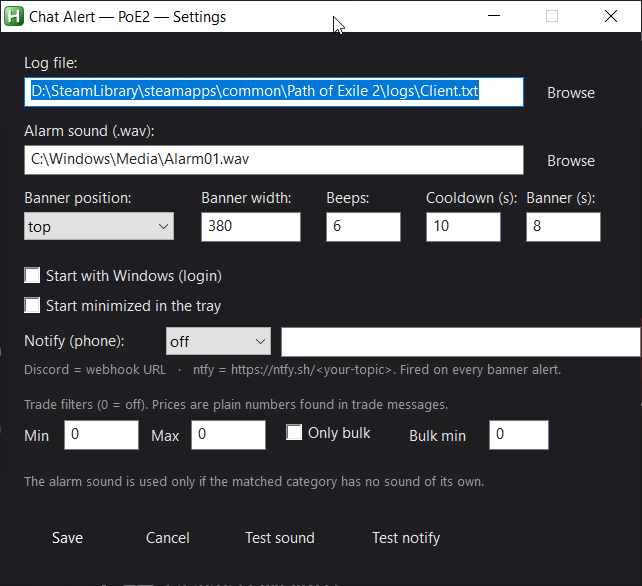
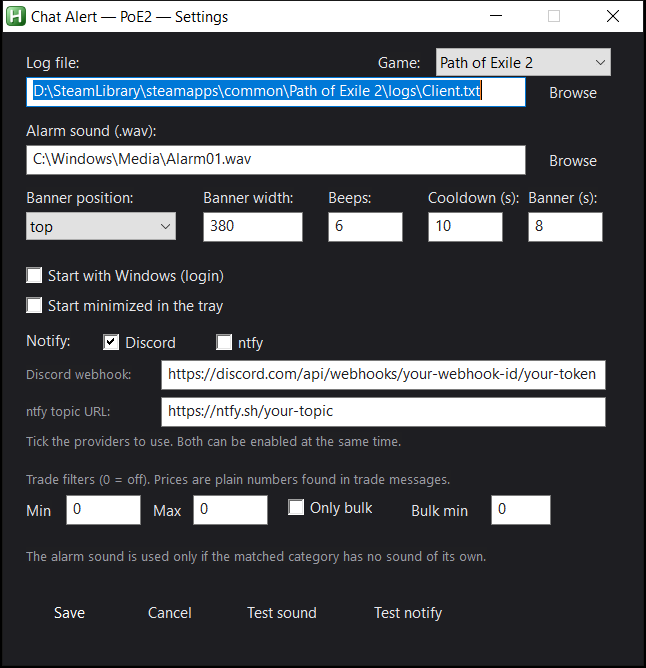
Add Path of Exile 1 support with a game switch
Settings gains a Game dropdown (Path of Exile 2 / Path of Exile 1). Each game keeps its own log path; switching stops the watcher, re-detects the Client.txt, reloads the item database and updates title, subtitle and tray tooltip. Item refresh and the trade endpoints follow the active game. README documents per-game log locations, the new settings row and a v1.2 section.

diff --git a/README.md b/README.md
@@ -1,24 +1,27 @@
 <div align="center">
 
-# Chat Alert <sub>for Path of Exile 2</sub>
+# Chat Alert <sub>for Path of Exile 2 &amp; 1</sub>
 
 **Never miss a whisper, a party invite or a guildmate asking for leech — get an on-screen alert the instant a word you care about hits the chat.**
 
 ![AutoHotkey](https://img.shields.io/badge/AutoHotkey-v1.1%20·%2064--bit-6594B9?logo=autohotkey&logoColor=white&style=flat-square)
 ![Platform](https://img.shields.io/badge/Windows-10%20%2F%2011-0078D6?logo=windows&logoColor=white&style=flat-square)
 ![Game access](https://img.shields.io/badge/Game%20access-read--only%20log-2EA44F?style=flat-square)
-![Version](https://img.shields.io/badge/version-1.1-D9A441?style=flat-square)
+![Version](https://img.shields.io/badge/version-1.2-D9A441?style=flat-square)
 ![No dependencies](https://img.shields.io/badge/dependencies-none-6E7681?style=flat-square)
 
-[Quick start](#quick-start) · [Features](#features) · [What's new](#whats-new-in-v11) · [Screenshots](#screenshots) · [Troubleshooting](#troubleshooting)
+[Quick start](#quick-start) · [Features](#features) · [What's new](#whats-new-in-v12) · [Screenshots](#screenshots) · [Troubleshooting](#troubleshooting)
 
 </div>
 
 ---
 
-**Chat Alert** tails the chat log Path of Exile 2 writes to disk and pops a clean, always-on-top banner the moment
-something you care about appears — a guildmate asking for leech, a party invite in Global, a whisper you would have
-missed while fighting a boss.
+**Chat Alert** tails the chat log **Path of Exile 2 or Path of Exile 1** writes to disk and pops a clean, always-on-top
+banner the moment something you care about appears — a guildmate asking for leech, a party invite in Global, a whisper
+you would have missed while fighting a boss.
+
+Both games use the same log format, so one switch in **Settings → Game** is all it takes. Each game remembers its own
+log file, and you can change game at any time without restarting.
 
 It **never touches the game process**. It only reads a text file: no injection, no memory access, no FPS impact, works
 in windowed, borderless and fullscreen.
@@ -31,6 +34,7 @@ in windowed, borderless and fullscreen.
 
 | | |
 |---|---|
+| **Two games** | Path of Exile 2 **and** Path of Exile 1 — one switch, each game remembers its own log file |
 | **Word alerts** | Any word or phrase, with case-sensitivity, whole-word matching and priority levels |
 | **Five channels** | Global · Trade · Party · Whisper · Guild — each with its own colour, sound and on/off switch |
 | **Phone push** | Discord webhook and/or ntfy — enable one or both, each with its own URL |
@@ -46,9 +50,11 @@ in windowed, borderless and fullscreen.
 1. **Install AutoHotkey v1.1 (64-bit)** → [download](https://www.autohotkey.com/download/ahk-v1-1.zip). AutoHotkey **v2 is not supported**.
 2. **Download** this repo (*Code → Download ZIP*) and extract it anywhere.
 3. **Run** `PoE2-Chat-Alert.ahk`.
-4. Point it at your game log — press **Choose log...** or open **Settings**:
+4. Pick your game in **Settings → Game** and point it at that game's log — press **Choose log...** or let the app find
+   it automatically:
    ```
-   <Steam or game folder>\Path of Exile 2\logs\Client.txt
+   Path of Exile 2:  <Steam or game folder>\Path of Exile 2\logs\Client.txt
+   Path of Exile 1:  <Steam or game folder>\Path of Exile\logs\Client.txt
    ```
 5. Type a word (e.g. `leech`), press **Add**, then **Start** — or just hit <kbd>Ctrl</kbd>+<kbd>Alt</kbd>+<kbd>S</kbd>.
 
@@ -60,7 +66,7 @@ The status bar shows `listening to chat (every 500 ms)` when it is working.
 
 ## How it works
 
-Path of Exile 2 writes every chat message to a plain-text log:
+Both games write every chat message to the same kind of plain-text log, so the app reads them identically:
 
 ```
 ... [INFO Client 1234] $SomePlayer: WTS Perfect Strike 5 divine
@@ -76,6 +82,25 @@ all, and the app keeps working whether or not the game is focused.
 ---
 
 ## Features
+
+### Path of Exile 1 and Path of Exile 2
+
+One app, both games. Open **Settings → Game** and pick what you are playing:
+
+- The app switches to that game's log file (and remembers it, so switching back is instant).
+- The window title and the header show `PoE1` or `PoE2` at a glance.
+- If you choose a log file manually (**Choose log...**), the game is detected from the path automatically.
+- Your **profiles, words, history, sounds and notifications are shared** between the two games — only the log file and
+  the item database are per-game.
+
+Default log locations, if you want to set the path by hand:
+
+| Game | Steam | Standalone | Epic |
+|---|---|---|---|
+| Path of Exile 2 | `...\steamapps\common\Path of Exile 2\logs\Client.txt` | `...\Grinding Gear Games\Path of Exile 2\logs\Client.txt` | — |
+| Path of Exile 1 | `...\steamapps\common\Path of Exile\logs\Client.txt` | `...\Grinding Gear Games\Path of Exile\logs\Client.txt` | `...\Epic Games\PathOfExile\logs\Client.txt` |
+
+> The app watches **one game at a time**. To switch, change the dropdown — no restart needed.
 
 ### Word alerts
 
@@ -170,6 +195,22 @@ These work while the game has focus (unless the combination is bound in-game):
 
 ---
 
+## What's new in v1.2
+
+### Play Path of Exile 1 or Path of Exile 2
+- New **Game** selector in Settings. Both games write the same chat format, so alerts, profiles and history work unchanged.
+- The log file, item database and trade API are per game; each game remembers its own log path.
+- The window title, header and tray tooltip follow the selected game.
+- Choosing a log file manually switches the game automatically when the path is recognisable.
+
+### Two games, one config
+- Existing settings are migrated automatically: the old single `log_path` becomes the log path of the game you had
+  selected, so there is nothing to redo after updating.
+- The Settings window refreshes itself after a game change, so the log field always shows the correct path.
+- PoE2 installations are still detected out of the box; PoE1 Steam, standalone and Epic folders are probed too.
+
+---
+
 ## What's new in v1.1
 
 ### Notifications: Discord *and* ntfy, independently
@@ -231,7 +272,8 @@ These work while the game has focus (unless the combination is bound in-game):
 
 | Setting | Description |
 |---|---|
-| **Log file** | Path to `logs/Client.txt` of your PoE2 installation |
+| **Log file** | Path to `logs/Client.txt` of your installation (filled automatically per game) |
+| **Game** | `Path of Exile 2` or `Path of Exile 1` — switches log file, item database and branding |
 | **Alarm sound (.wav)** | Fallback sound used when a category has none |
 | **Banner position** | `top`, `center` or `bottom` |
 | **Banner width** | Banner width in pixels (default 380) |
@@ -251,8 +293,10 @@ Settings are stored in `PoE2-Chat-Alert.ini` next to the script and saved automa
 | File | Purpose | In git |
 |---|---|:--:|
 | `PoE2-Chat-Alert.ahk` | The application | yes |
+| `items.txt` | Item database used by Trade watch for Path of Exile 2 | yes |
+| `items-poe1.txt` | Item database used by Trade watch for Path of Exile 1 (created by *Update items*) | no |
 | `README.md`, `screenshots/` | Documentation | yes |
-| `PoE2-Chat-Alert.ini` | Your settings, profiles and history (created on first run) | no |
+| `PoE2-Chat-Alert.ini` | Your settings (both games), profiles and history (created on first run) | no |
 | `PoE2-Chat-Alert-matches.txt` | Local log of every match | no |
 | `PoE2-Chat-Alert-<timestamp>.csv` | History exports | no |
 
@@ -265,8 +309,17 @@ Delete the `.ini` file to reset the app to defaults.
 <details>
 <summary><b>The status bar says "Log not found"</b></summary>
 
-Set the correct path in **Settings → Log file → Browse**. It must point to `...\Path of Exile 2\logs\Client.txt`.
-Launch the game once so the log exists.
+Check that **Settings → Game** matches the game you are playing, then set the correct path in **Settings → Log file →
+Browse**. It must point to `...\Path of Exile 2\logs\Client.txt` or `...\Path of Exile\logs\Client.txt`. Launch the game
+once so the log exists — the app creates it only while the game is running.
+
+</details>
+
+<details>
+<summary><b>I play both games — do I need two copies?</b></summary>
+
+No. Use **Settings → Game** to switch. Each game keeps its own log path, so going back and forth is two clicks. Words,
+profiles and history are shared; only the log file and the item database change.
 
 </details>
 
@@ -320,7 +373,10 @@ Chat Alert only reads a text file written by the game. It does not read memory, 
 with the client. Still, use it at your own risk — see below.
 
 **Does it work with the standalone client?**  
-Yes — point it at that installation's `logs/Client.txt`.
+Yes — for both games. Pick the game in Settings and point it at that installation's `logs/Client.txt`.
+
+**Can I watch both games at the same time?**  
+No — the app watches the log of the game selected in Settings. Switching takes a second and does not restart the app.
 
 **Does it work on a non-English client?**  
 The UI is English. Channel detection relies on the `#`, `$`, `%`, `@`, `&` prefixes, so it is largely
@@ -345,8 +401,8 @@ No — your lines and system messages are ignored.
   *your* Discord webhook or ntfy topic.
 - Personal settings are git-ignored and never published.
 
-This is a community tool, **not affiliated with, endorsed by, or supported by Grinding Gear Games**. Path of Exile 2 is
-a trademark of Grinding Gear Games. Use at your own risk.
+This is a community tool, **not affiliated with, endorsed by, or supported by Grinding Gear Games**. Path of Exile and
+Path of Exile 2 are trademarks of Grinding Gear Games. Use it at your own risk.
 
 ---
 
